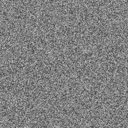
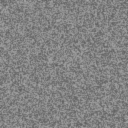
Kiss Me grade: honey, sage, analog film.
Smoke wash pulled back. NASA Black Marble still the map. No lyrics, no likeness.

Changed region(s): [[0.0, 0.0, 1.0, 1.0]]

diff --git a/styles.css b/styles.css
@@ -1,19 +1,19 @@
 @import url("https://fonts.googleapis.com/css2?family=Instrument+Serif:ital@0;1&family=Syne:wght@500;600;700;800&display=swap");
 
 :root {
-  --bg: #0b0908;
-  --bg-alt: #14110e;
-  --panel: rgba(22, 18, 16, 0.82);
-  --border: rgba(196, 176, 138, 0.22);
-  --hematite: #a85a38;
-  --dust: #c4b08a;
-  --ember: #e6e0d6;
-  --red-dust: #a85a38;
-  --red-dust-bright: #d4c4a8;
-  --star: #e8e4dc;
-  --star-dim: #b8b0a4;
-  --star-faint: #7a7368;
-  --void: #0b0908;
+  --bg: #100e0a;
+  --bg-alt: #1a1610;
+  --panel: rgba(28, 24, 18, 0.78);
+  --border: rgba(232, 196, 120, 0.22);
+  --hematite: #c47a3a;
+  --dust: #e2c07a;
+  --ember: #f4ead4;
+  --red-dust: #c47a3a;
+  --red-dust-bright: #f0d9a0;
+  --star: #f4ead4;
+  --star-dim: #cbbca0;
+  --star-faint: #8a7e68;
+  --void: #100e0a;
   --max-w: 920px;
   --font-serif: "Instrument Serif", "Iowan Old Style", Georgia, serif;
   --font-ui: "Syne", "Futura", system-ui, sans-serif;
@@ -697,14 +697,14 @@ body.home nav .links a:hover { color: var(--dust); }
   object-position: 52% 42%;
   transform: scale(1.08);
   animation: orbit-drift 42s ease-in-out infinite alternate;
-  filter: contrast(1.08) saturate(0.72);
+  filter: contrast(0.98) saturate(1.05) sepia(0.12);
 }
 .hero-veil {
   position: absolute;
   inset: 0;
   z-index: 1;
   background:
-    linear-gradient(180deg, rgba(11,9,8,0.22) 0%, rgba(11,9,8,0.06) 40%, rgba(11,9,8,0.62) 76%, #0b0908 100%);
+    linear-gradient(180deg, rgba(16,14,10,0.12) 0%, rgba(16,14,10,0.02) 42%, rgba(16,14,10,0.55) 78%, #100e0a 100%);
   pointer-events: none;
 }
 .hero-grain {
@@ -712,7 +712,7 @@ body.home nav .links a:hover { color: var(--dust); }
   inset: 0;
   z-index: 2;
   pointer-events: none;
-  opacity: 0.2;
+  opacity: 0.12;
   mix-blend-mode: overlay;
   background-image: url("images/grain.png");
   background-size: 160px 160px;

diff --git a/index.html b/index.html
@@ -63,7 +63,7 @@
       <img src="images/map-australia-night.jpg" alt="Australia at night — city lights on a dark continent. NASA Black Marble, Suomi NPP VIIRS, 2016 composite.">
       <figcaption>The map. NASA Black Marble 2016 — Suomi NPP VIIRS. Public domain. Belt: science. Not a TerAustralis facility.</figcaption>
     </figure>
-    <p class="source-link">Opening night: NASA Black Marble 2016 (Suomi NPP VIIRS). Presentation grade — smoke, tobacco, grain. No cities added. Credit: NASA Earth Observatory / Joshua Stevens, VIIRS data Miguel Román, NASA GSFC.</p>
+    <p class="source-link">Opening night: NASA Black Marble 2016 (Suomi NPP VIIRS). Presentation grade — honey, analog film. No cities added. Credit: NASA Earth Observatory / Joshua Stevens, VIIRS data Miguel Román, NASA GSFC.</p>
   </div>
 </section>
 
